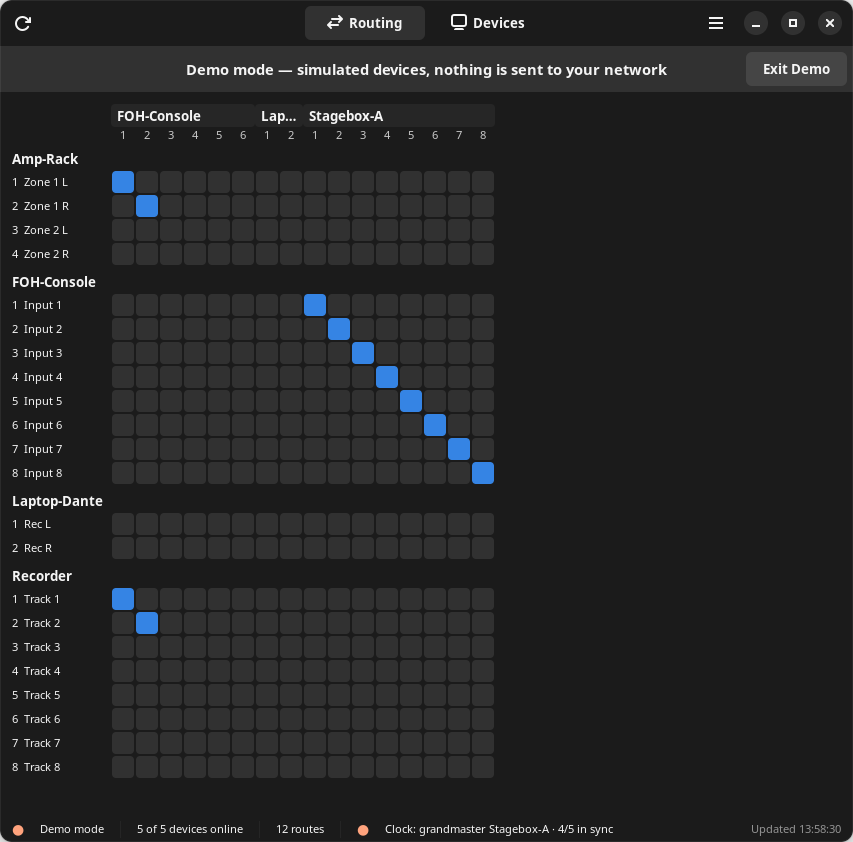
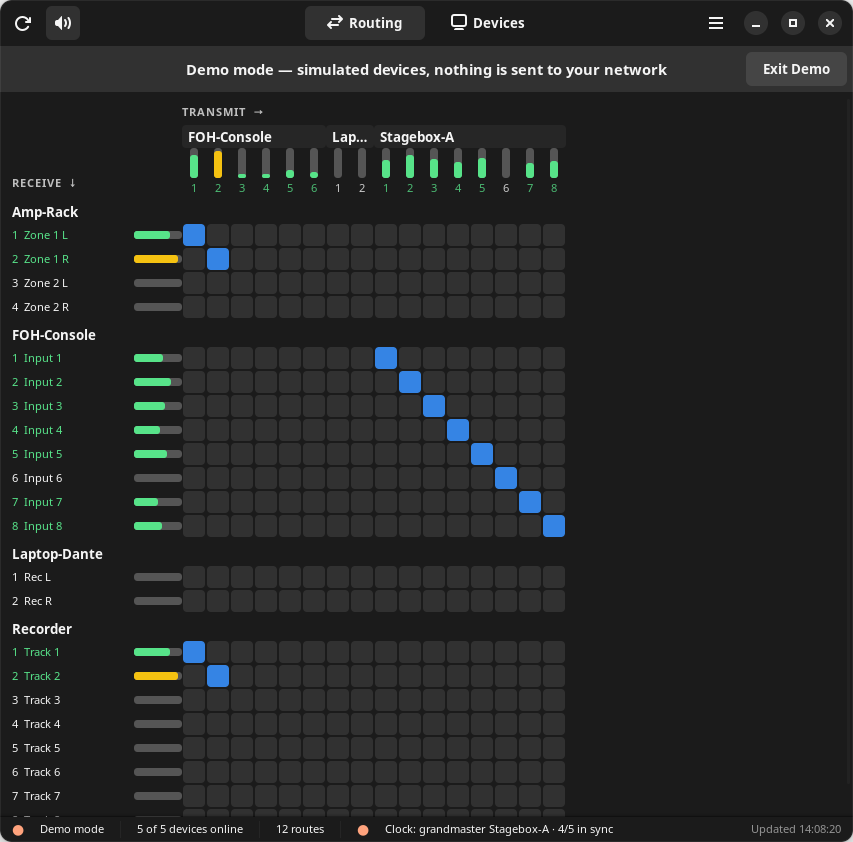
Label the routing matrix axes: TRANSMIT across, RECEIVE down

diff --git a/netaudio_desktop/app.py b/netaudio_desktop/app.py
@@ -45,6 +45,8 @@ levelbar.meter.m-hot block.filled.high, levelbar.meter.m-hot block.filled.full {
 levelbar.meter.m-clip block.filled, levelbar.meter.m-clip block.filled.low,
 levelbar.meter.m-clip block.filled.high, levelbar.meter.m-clip block.filled.full { background: #e01b24; }
 .sig { color: #57e389; }
+.axis-title { font-weight: bold; font-size: smaller; letter-spacing: 1px; opacity: 0.75;
+              padding: 0 6px 4px 0; }
 .rx-dev { font-weight: bold; padding: 6px 8px 2px 0; }
 """
 
@@ -193,7 +195,7 @@ class RoutingView(Gtk.ScrolledWindow):
                              width_chars=1, max_width_chars=1)
             head.set_tooltip_text(dev.get("name") or dev["server_name"])
             head.add_css_class("dev-head")
-            self.grid.attach(head, i + 1, 0, j - i, 1)
+            self.grid.attach(head, i + 1, 1, j - i, 1)
             i = j
         for ci, (d, n, ch) in enumerate(tx_cols):
             lbl = Gtk.Label(label=str(n))
@@ -205,9 +207,18 @@ class RoutingView(Gtk.ScrolledWindow):
             colbox.append(bar)
             colbox.append(lbl)
             self.meters[("tx", d["server_name"], n)] = [bar, lbl, lbl.get_tooltip_text()]
-            self.grid.attach(colbox, ci + 1, 1, 1, 1)
+            self.grid.attach(colbox, ci + 1, 2, 1, 1)
+        # Axis titles: columns are transmitters (sources), rows are receivers (destinations).
+        tx_title = Gtk.Label(label="TRANSMIT  →", xalign=0, hexpand=False)
+        tx_title.add_css_class("axis-title")
+        tx_title.set_tooltip_text("Columns: transmitters. Audio comes from these channels.")
+        self.grid.attach(tx_title, 1, 0, len(tx_cols), 1)
+        rx_title = Gtk.Label(label="RECEIVE  ↓", xalign=0, valign=Gtk.Align.END)
+        rx_title.add_css_class("axis-title")
+        rx_title.set_tooltip_text("Rows: receivers. Audio goes to these channels; click a cell to patch a source.")
+        self.grid.attach(rx_title, 0, 1, 1, 2)
         # Rows
-        row = 2
+        row = 3
         last_dev = None
         for d, n, rch in rx_rows:
             if d is not last_dev:
